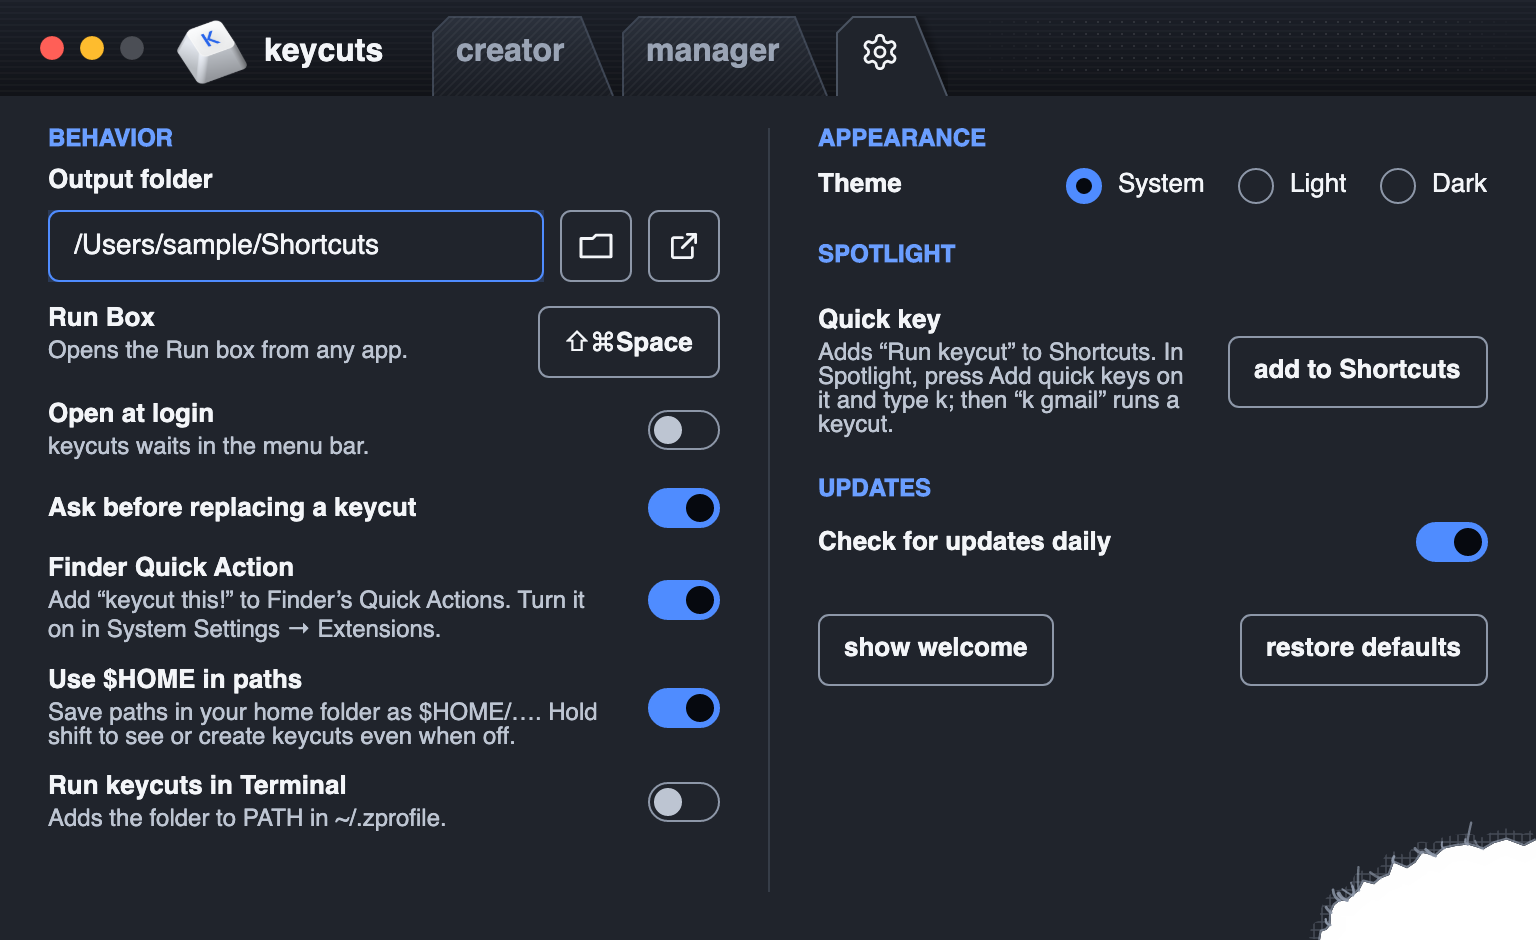
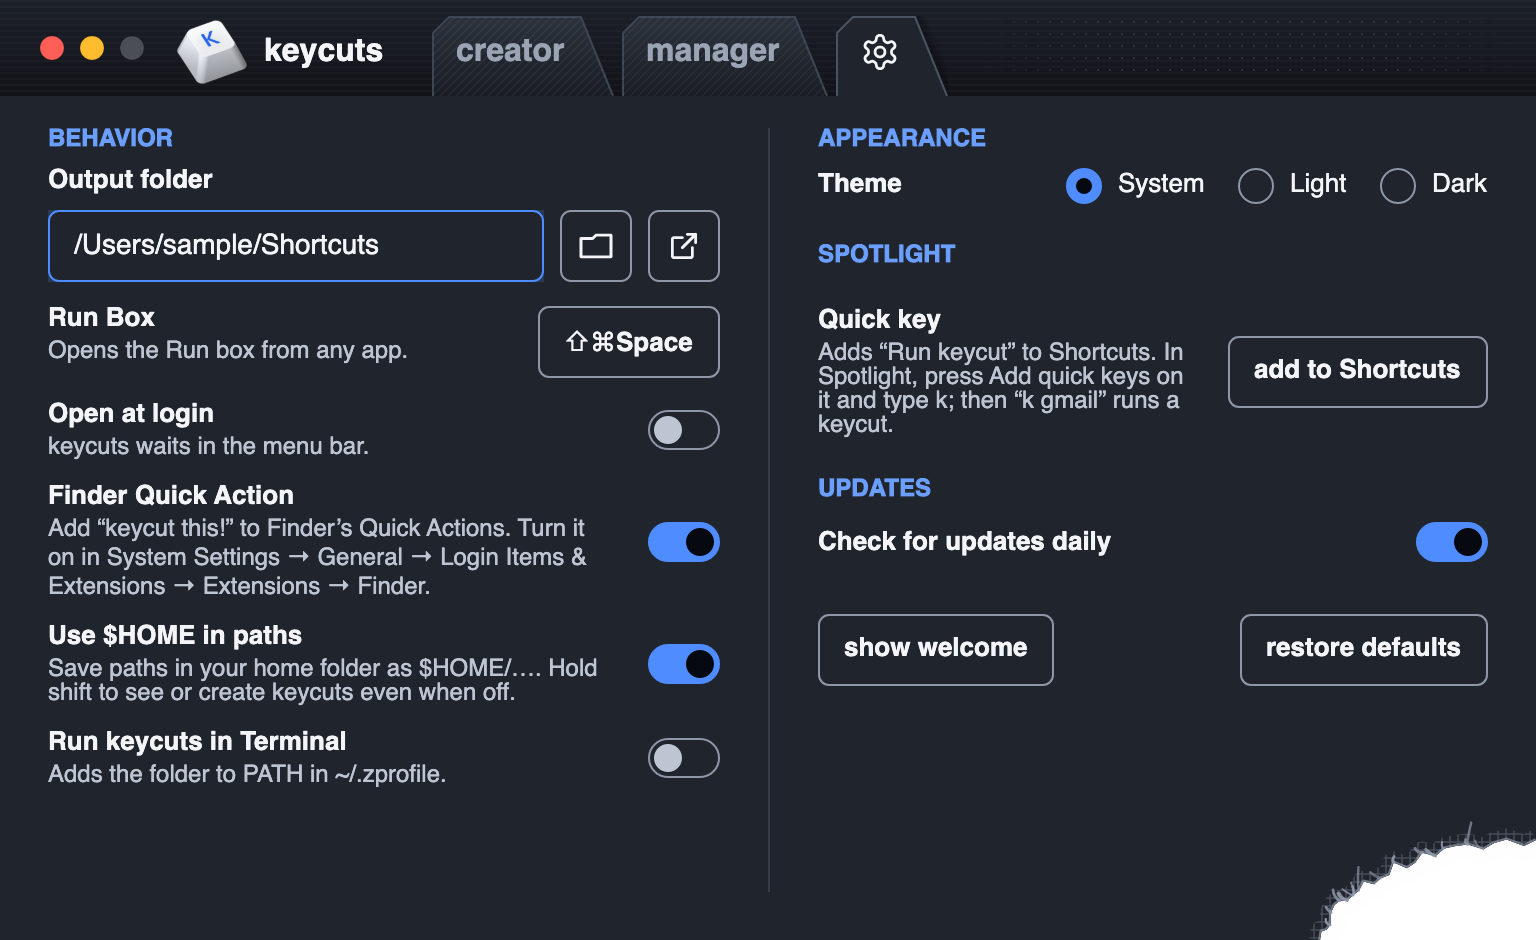
Settings (macOS): the Quick Action note gives the full path to its switch
It said System Settings → Extensions; the switch is under General → Login Items & Extensions → Extensions → Finder, as the README says. The macOS Settings screenshots are regenerated, which also drops the removed "Ask before replacing a keycut" row.

Changed region(s): [[0.0312, 0.4936, 0.4688, 0.8947]]

diff --git a/keycuts.App/PlatformText.cs b/keycuts.App/PlatformText.cs
@@ -24,7 +24,7 @@ namespace keycuts.GUI
         public static readonly string RightClickName = PlatformKeys.IsMac ? "Finder Quick Action" : "Right-click context menus";
 
         public static readonly string RightClickNote = PlatformKeys.IsMac
-            ? "Add “keycut this!” to Finder’s Quick Actions. Turn it on in System Settings → Extensions."
+            ? "Add “keycut this!” to Finder’s Quick Actions. Turn it on in System Settings → General → Login Items & Extensions → Extensions → Finder."
             : "Add “keycut this!” to File Explorer menus.";
 
         /// <summary>Settings: macOS has one variable, the home folder (Phase 4.6).</summary>
